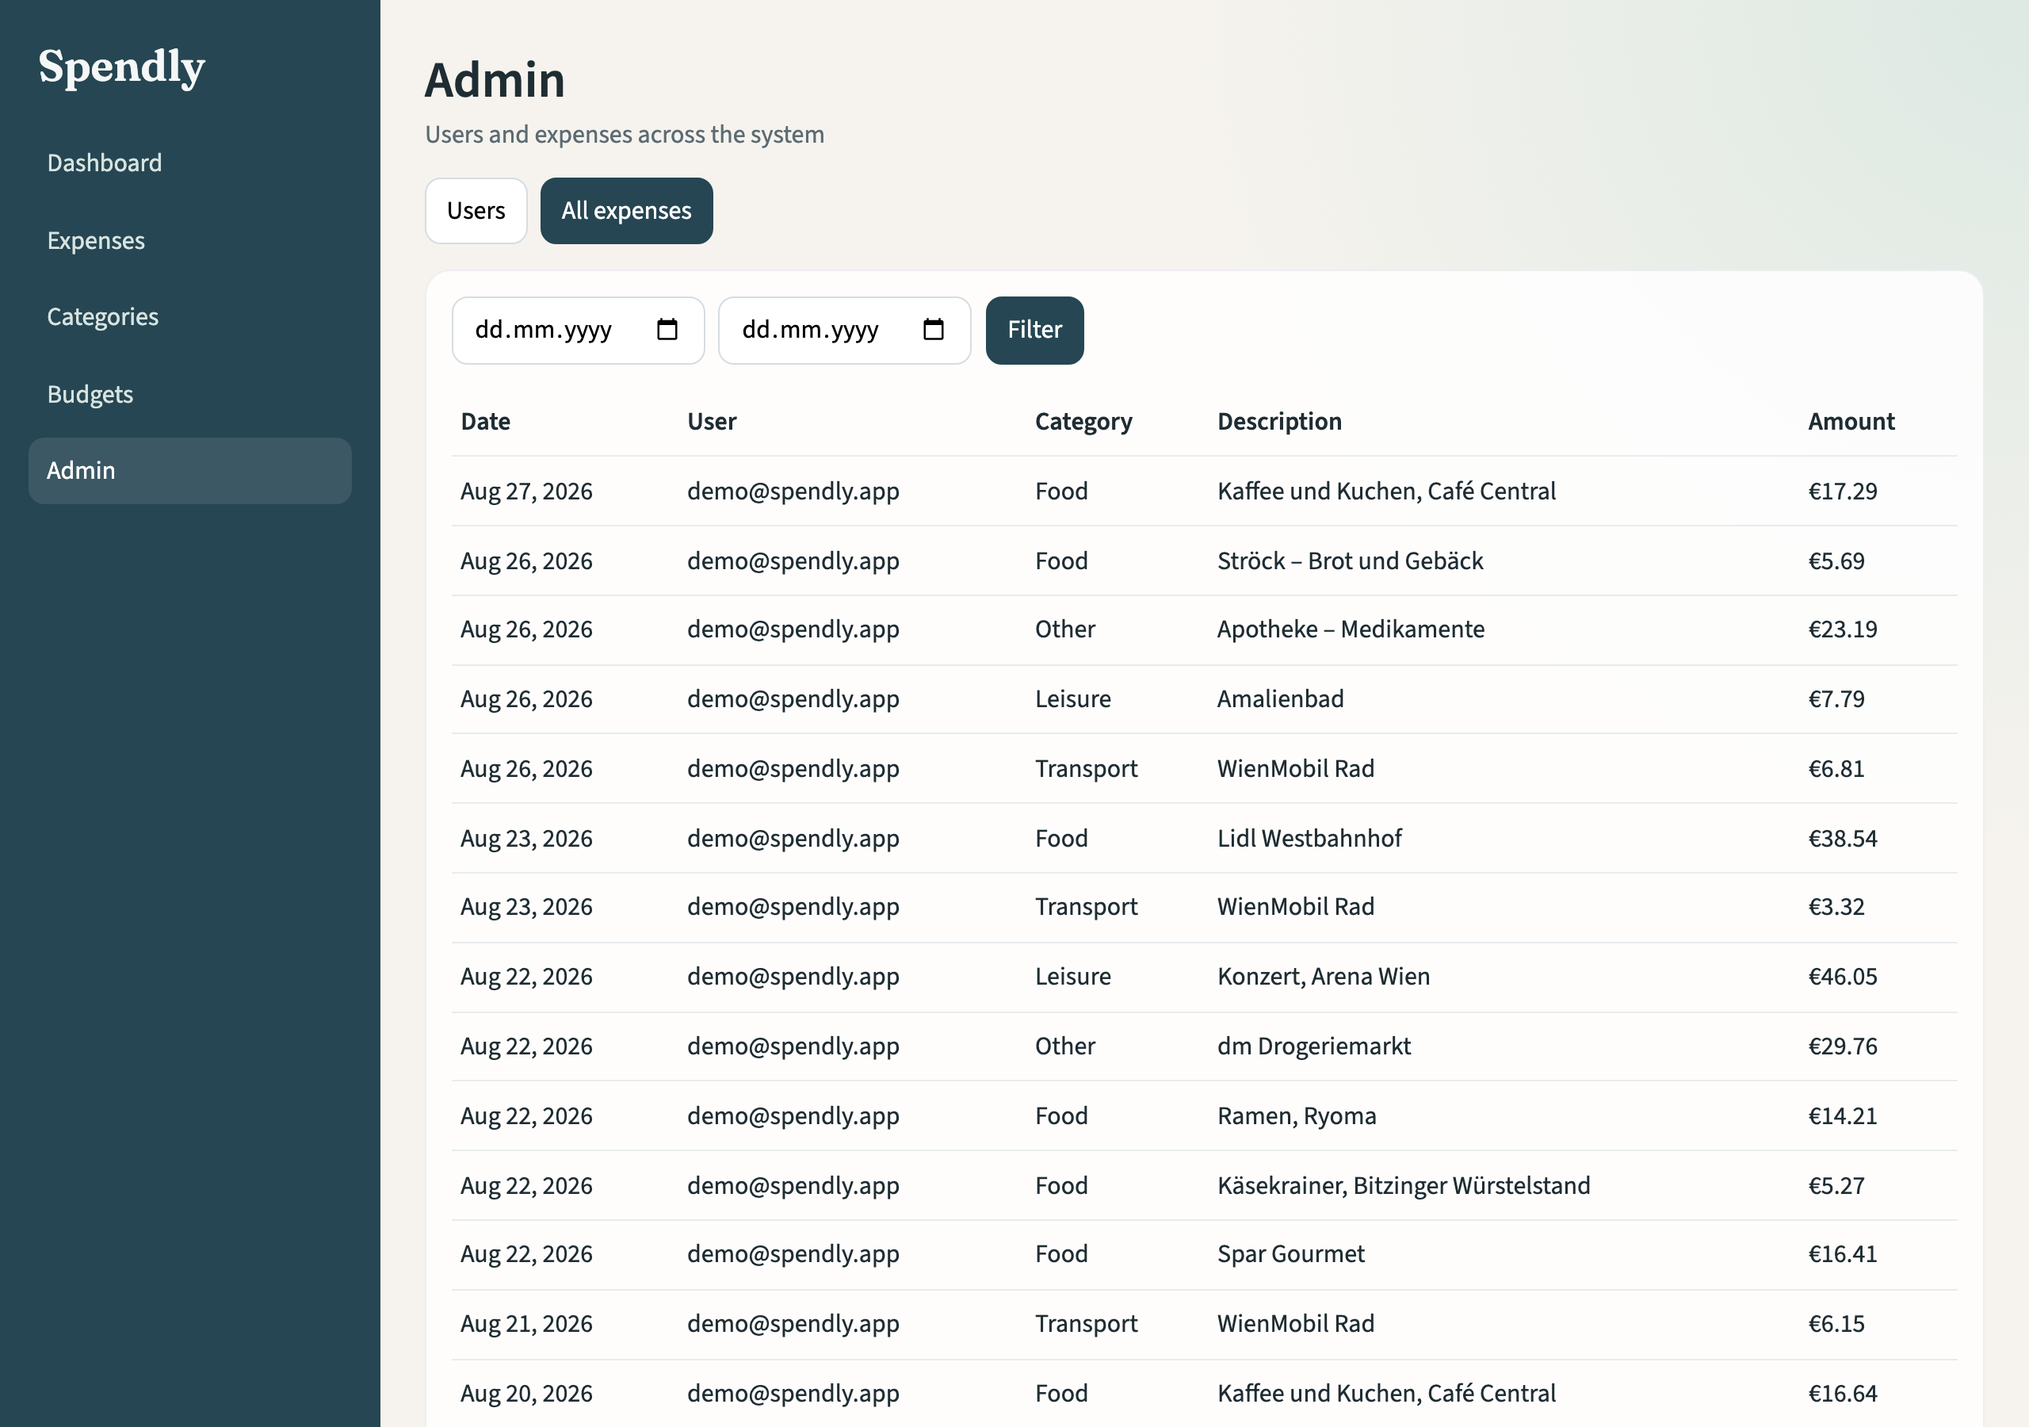
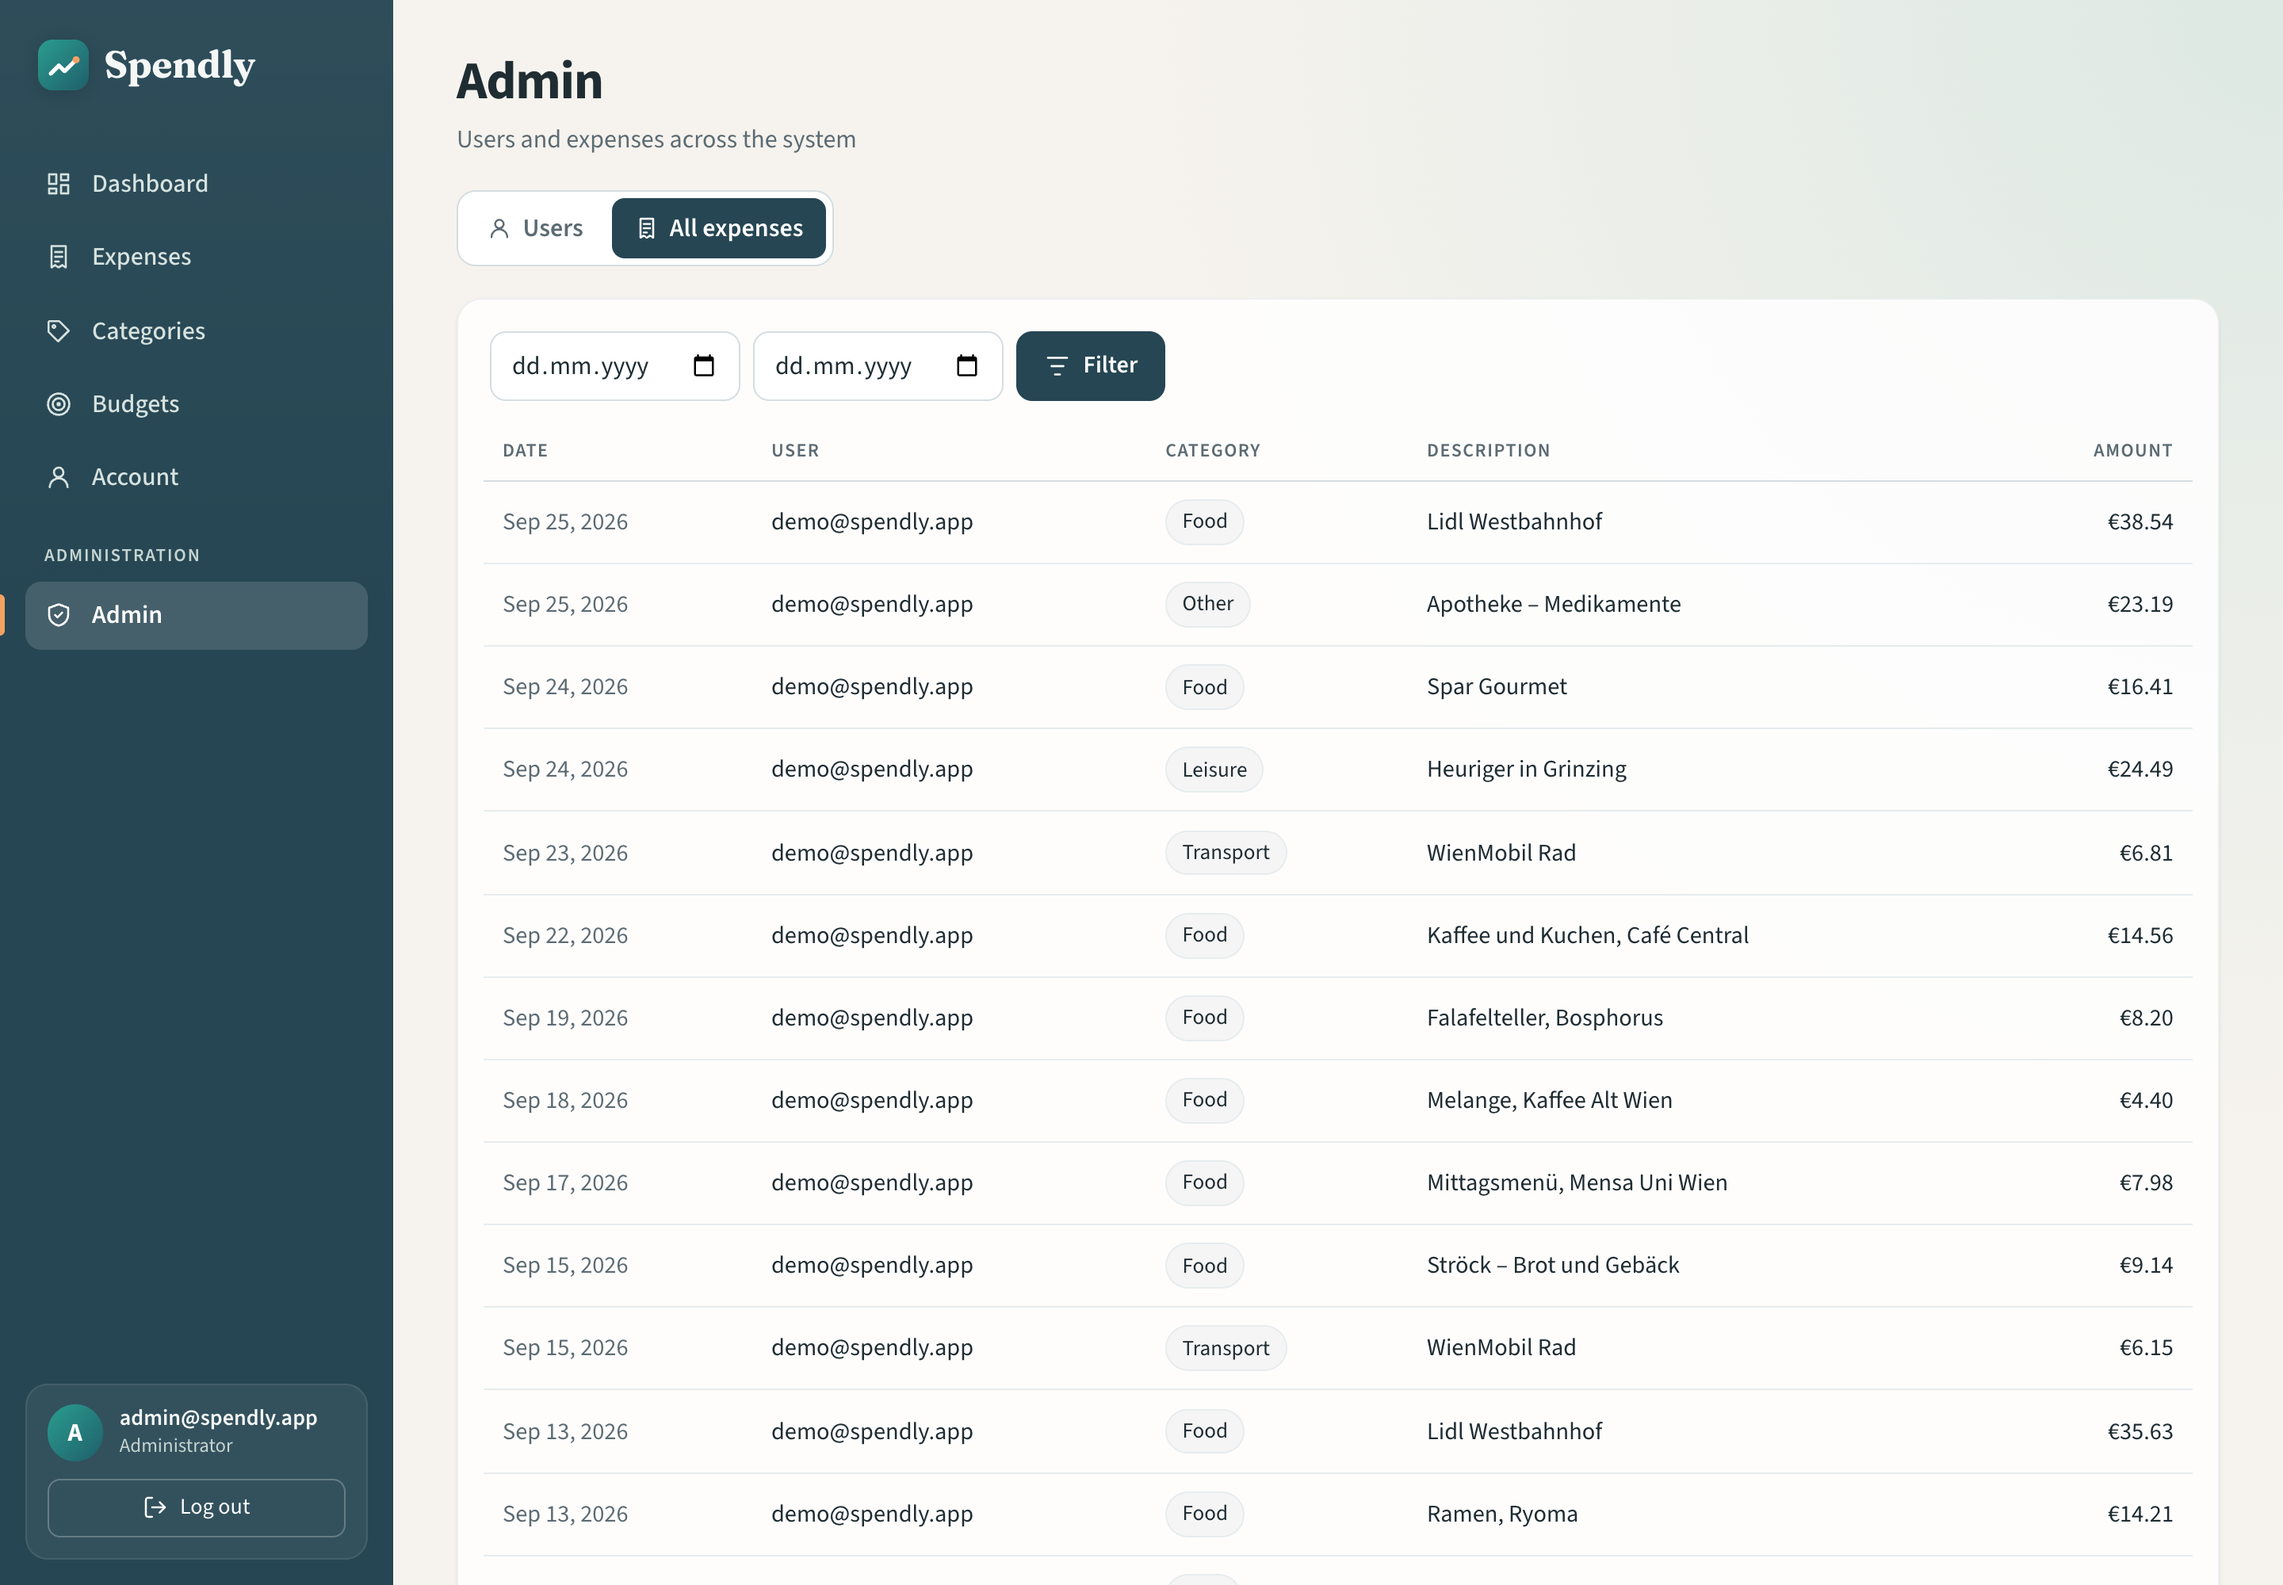
feat: update engineering notes with UI redesign insights and accessibility improvements; add new screenshots

diff --git a/docs/ENGINEERING_NOTES.md b/docs/ENGINEERING_NOTES.md
@@ -539,6 +539,50 @@ response the page consumed through `fetch()` the browser does not always still
 have it. The test now reads the body in a route handler, before the browser sees
 it — 15 out of 15 since.
 
+## 16. What a UI redesign shook loose
+
+The redesign (a shared design system, icons, a donut chart in each category's own
+colour) was meant to be cosmetic. It turned up four things that were not.
+
+**A positional column list was one edit away from a wrong total.** The monthly
+per-category query returned `Object[]`, and two services read it by index. The
+chart needed the category colour, which meant a new column — and `BudgetService`
+was reading the sum from `row[2]`, which would now have been the colour. It would
+have failed with a `ClassCastException` on the first budget page, which is the
+lucky case; had both columns been numbers, budget progress would have silently
+shown the wrong figure. The query now builds a `CategorySpend` record through a
+JPQL constructor expression, so a new column is a compile error in every reader,
+not a runtime surprise in one of them.
+
+**A recolour served a stale chart.** The summary cache is invalidated on a rename
+because it carries category names (see §2). Once it also carried colours, a
+colour-only edit left the dashboard drawing the old colour for up to ten
+minutes. The event is now `CategoryChangedEvent`, raised for a rename *or* a
+recolour, with an integration test for the second case.
+
+**The phone layout had scrolled sideways since it was written.** On narrow
+screens the shell is a single `1fr` grid column. `1fr` means `minmax(auto, 1fr)`,
+and `auto` there is the content's min-content width — which, for a row of nav
+links that is supposed to scroll horizontally, is every link side by side. The
+whole page grew to about 800px and the "Log out" button sat off screen. The fix
+is `minmax(0, 1fr)`, applied to the page grid as well so a wide table scrolls
+inside its panel instead of widening the page.
+
+**Animation can fail an accessibility check.** The first axe run after the
+redesign flagged the active admin tab for contrast. At rest it is white on
+`#264653`, about 10:1; but the tab faded both its fill and its text colour over
+150ms, axe measured half-way through, and half-way the pair really is below
+4.5:1 — as it is for a real user during that fade. The tabs now switch
+instantly. The toast accent stripe had a similar never-noticed bug: `border-left`
+was declared before the `border` shorthand, which reset it, so the success/error
+colour had never actually rendered.
+
+The same pass removed a hand-declared `DaoAuthenticationProvider` bean. With a
+single `UserDetailsService` and `PasswordEncoder`, Spring Security builds the
+same provider itself; declaring it as well only produced a startup warning, on
+every boot and in every test context, that the `UserDetailsService` bean would
+be ignored.
+
 ---
 
 ## Testing
